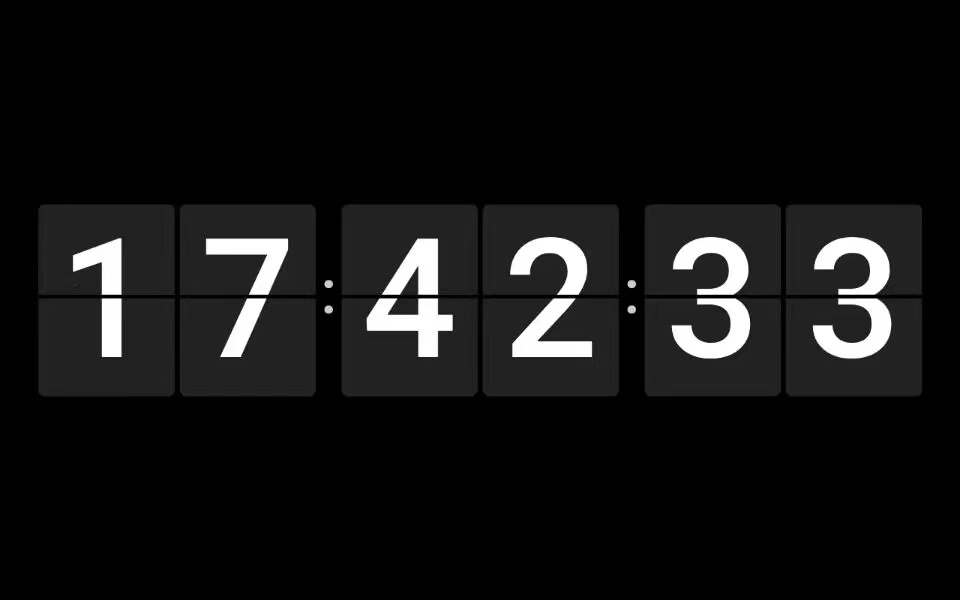
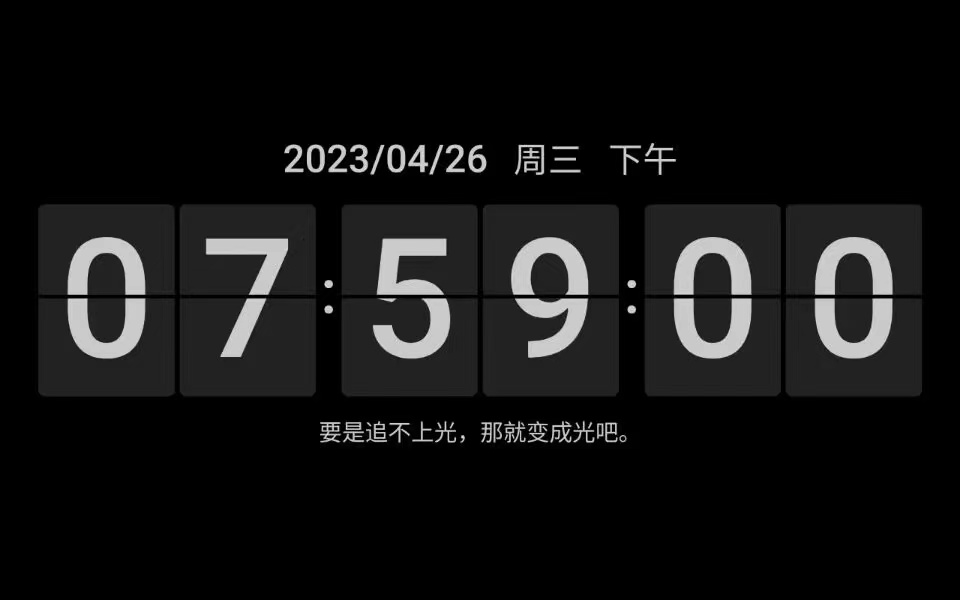
doc: 增加操作说明；更换示例图

diff --git a/README.md b/README.md
@@ -2,4 +2,9 @@
 
 使用vue3+ts+vite实现的翻页时钟
 
-![示例图](./doc/example.jpg)
+![示例图](./doc/example.jpg) 
+
+### 操作
+1. 双击时间：切换时间显示进制
+2. 双击分钟：切换全屏状态
+3. 双击鸡汤：更新获取鸡汤
